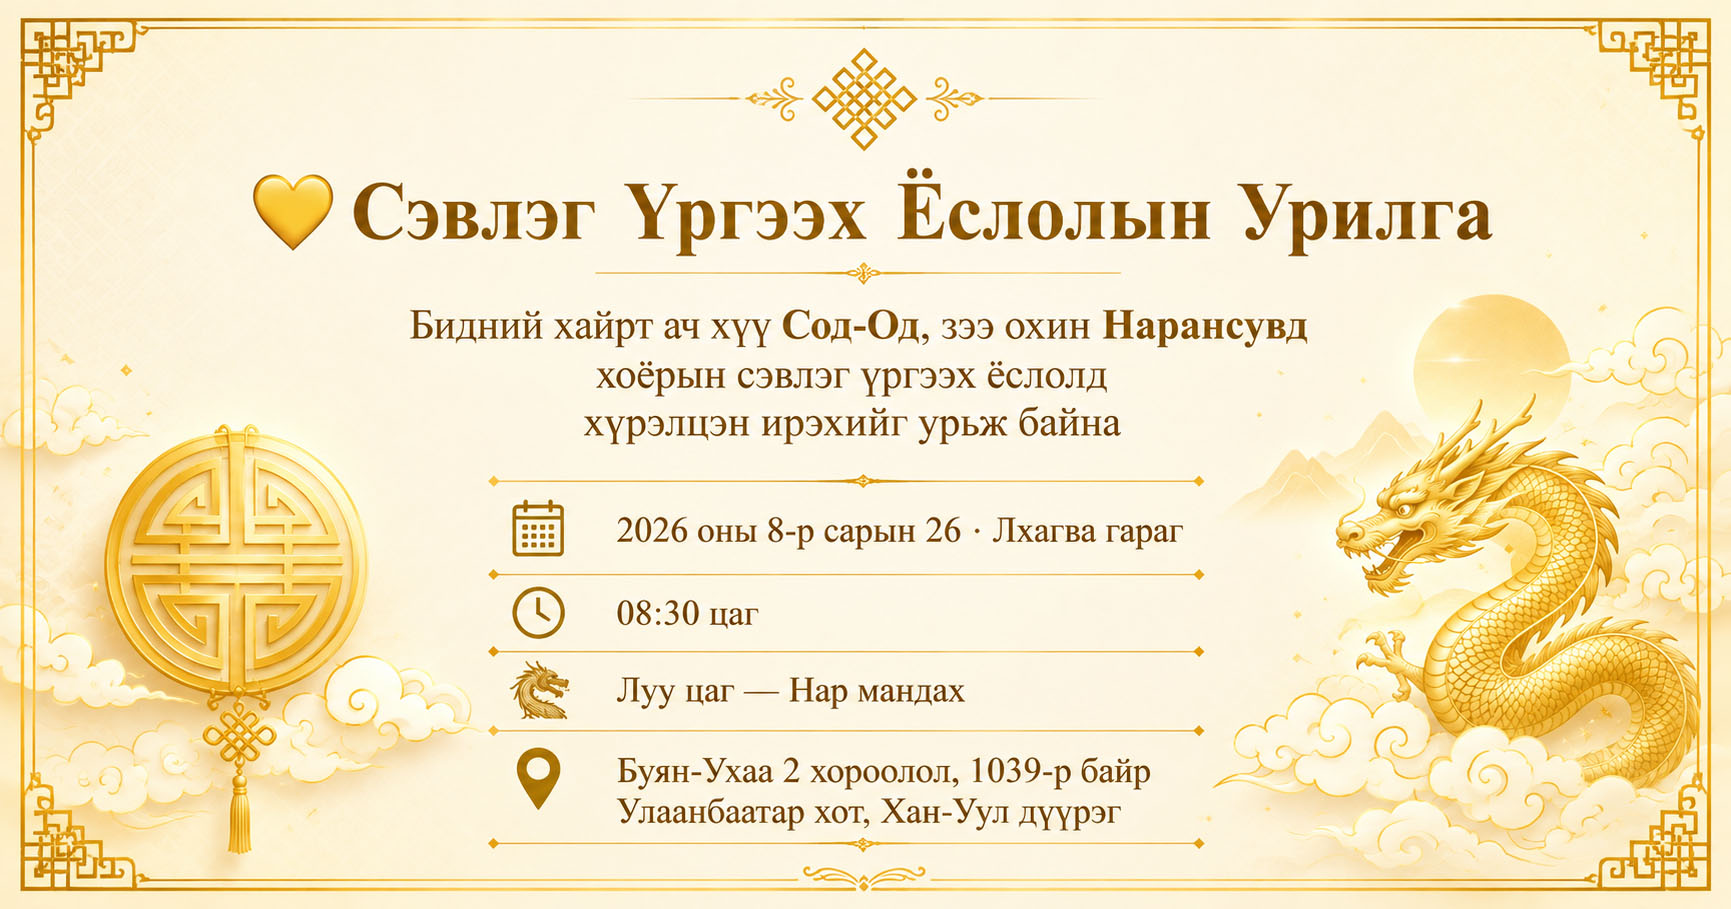
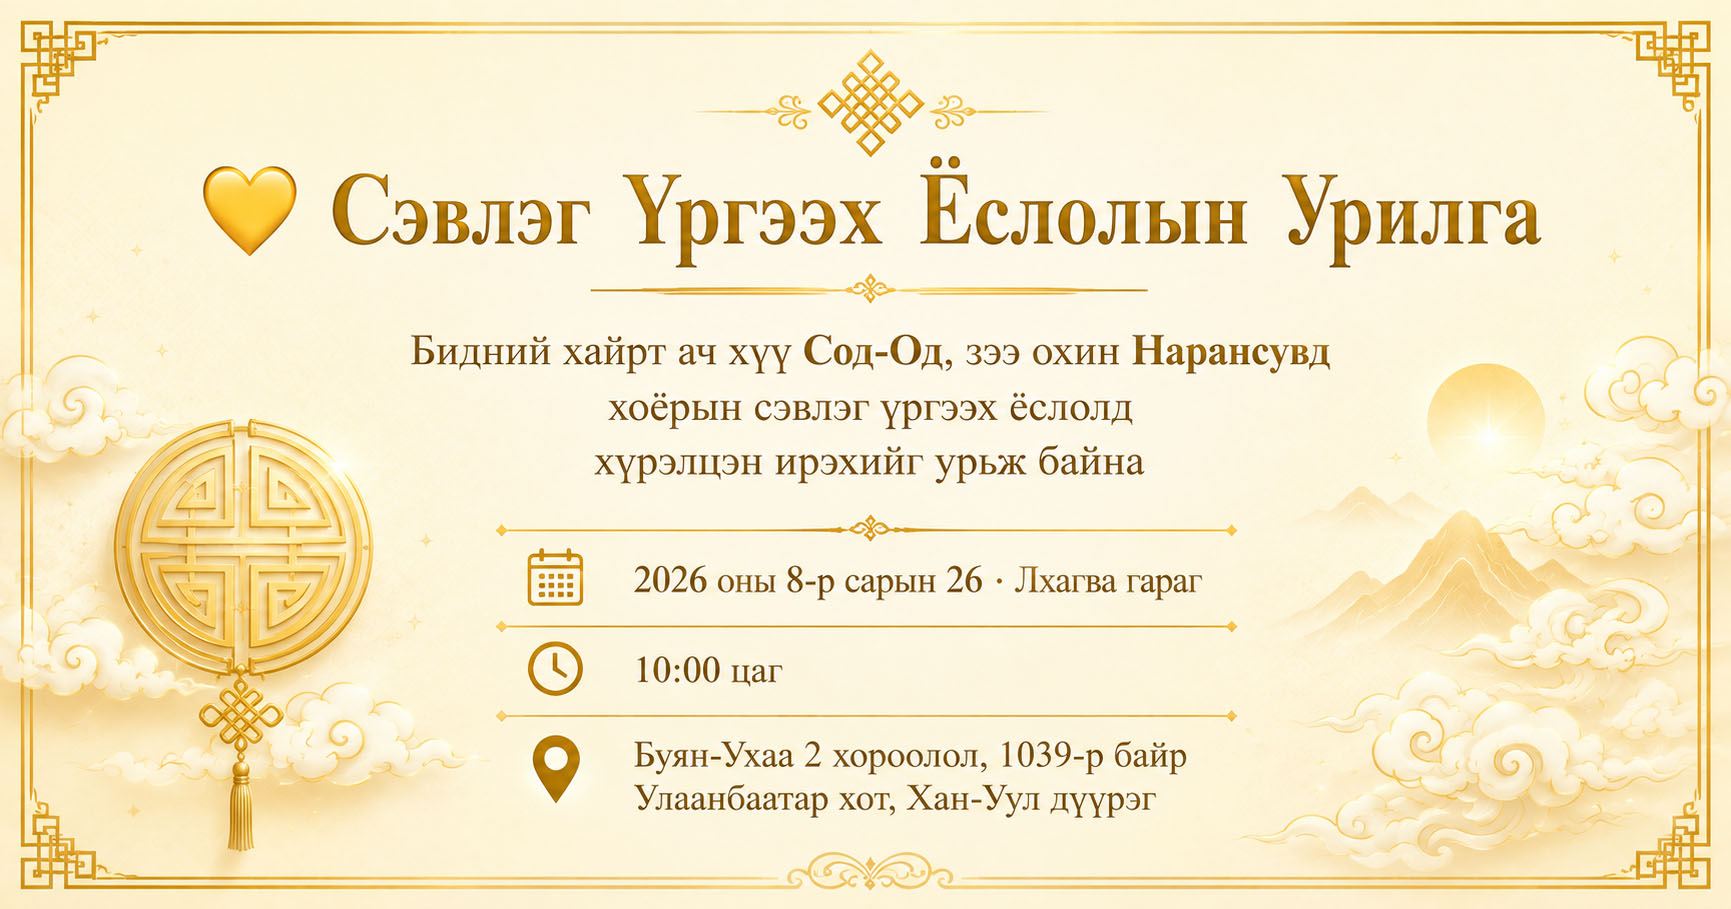
Цаг өөрчлөсөн

Changed region(s): [[0.0, 0.0, 1.0, 0.9857]]

diff --git a/src/App.jsx b/src/App.jsx
@@ -297,7 +297,7 @@ const App = () => {
           <p>
             Бид хайртай ач хүү <strong>С.Сод-Од</strong>,<br />
             хайртай зээ охин <strong>О.Нарансувд</strong> хоёрын<br />
-            сэвлэг үргээх ёслолыг эмээгийн гэрт хамтад нь тохиож байгаа тул,<br />
+            сэвлэг үргээх ёслол хамтад нь тохиож байгаа тул,<br />
             та бүхнийг гэр бүлийн хамтаар хүрэлцэн ирж,<br />
             Ач, зээ хоёртоо хайр энэрлийн ерөөлөө өргөн,<br />
             Тэдний өсөж торних заяанд ивээл хайрлаж,<br />
@@ -326,7 +326,7 @@ const App = () => {
         <h3 className="sub-title">📅 Хэзээ болох</h3>
         <div className="date-blocks">
           <div className="date-block">
-            <h3>2026 оны 08 сарын <strong>26</strong>-ны 09:00 цагт (луу цаг)</h3>
+            <h3>2026 оны 08 сарын <strong>26</strong>-ны 10:00 цагт</h3>
           </div>
         </div>
         <div className="calendar-container">

diff --git a/index.html b/index.html
@@ -11,7 +11,7 @@
     <meta property="og:type" content="website" />
     <meta property="og:url" content="https://seveleg-urilga.vercel.app/" />
     <meta property="og:title" content="💛 Сэвлэг Үргээх Ёслолын Урилга" />
-    <meta property="og:description" content="📅 2026 оны 8-р сарын 26 · Лхагва гараг · ⏰ 08:30 цаг 🐉 Луу цаг — Нар мандах · 📍 Буян-Ухаа 2 хороолол, 1039-р байр, 49-р тоот" />
+    <meta property="og:description" content="📅 2026 оны 8-р сарын 26 · Лхагва гараг · ⏰ 10:00 цаг · 📍 Буян-Ухаа 2 хороолол, 1039-р байр, 49-р тоот" />
     
     <!-- ✅ БҮГД preview.jpg БОЛГОВ -->
     <meta property="og:image" content="https://seveleg-urilga.vercel.app/preview.jpg" />

diff --git a/public/index.html b/public/index.html
@@ -11,7 +11,7 @@
     <meta property="og:type" content="website" />
     <meta property="og:url" content="https://seveleg-urilga.vercel.app/" />
     <meta property="og:title" content="💛 Сэвлэг Үргээх Ёслолын Урилга" />
-    <meta property="og:description" content="📅 2026 оны 8-р сарын 26 · Лхагва гараг · ⏰ 08:30 цаг 🐉 Луу цаг — Нар мандах · 📍 Буян-Ухаа 2 хороолол, 1039-р байр, 49-р тоот" />
+    <meta property="og:description" content="📅 2026 оны 8-р сарын 26 · Лхагва гараг · ⏰ 10:00 цаг · 📍 Буян-Ухаа 2 хороолол, 1039-р байр, 49-р тоот" />
     
     <!-- ✅ БҮГД preview.jpg БОЛГОВ -->
     <meta property="og:image" content="https://seveleg-urilga.vercel.app/preview.jpg" />
